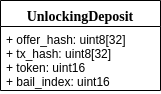
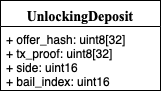
refactor: diagrams and other amends
Refers #8

diff --git a/src/chasm/primitives/transaction/UnlockDepositTransaction.hpp b/src/chasm/primitives/transaction/UnlockDepositTransaction.hpp
@@ -33,6 +33,11 @@ namespace chasm::primitives::transaction {
      */
     class UnlockDepositTransaction : public Transaction {
     public:
+        enum class TransactionSide : uint8_t {
+            seller,
+            buyer
+        };
+
         ~UnlockDepositTransaction() override = default;
 
         bool operator==(const UnlockDepositTransaction &rh) const;
@@ -44,13 +49,11 @@ namespace chasm::primitives::transaction {
         friend void boost::serialization::serialize(Archive &ar, UnlockDepositTransaction &tx,
                                                     unsigned int version);
 
-        using proof_t = std::vector<std::byte>;
+        hash_t offerHash_; //!< Exchange id
+        TransactionSide side_; //!< Either seller or buyer. This side of the exchange will be checked
+        uptr_t<proof_t> proof_; //!< Proof of tx inclusion
 
-        hash_t offerHash_;
-        token_t token_;
-        uptr_t<proof_t> proof_;
-
-        out_idx_t bailIndex_;
+        out_idx_t bailIndex_; //!< Index of bail (in outputs)
     };
 }
 
@@ -60,7 +63,7 @@ namespace boost::serialization {
                    unsigned int version) {
         ar & boost::serialization::base_object<chasm::primitives::Transaction>(tx);
         ar & tx.offerHash_;
-        ar & tx.token_;
+        ar & tx.side_;
         ar & tx.proof_;
         ar & tx.bailIndex_;
     }

diff --git a/src/chasm/primitives/Header.hpp b/src/chasm/primitives/Header.hpp
@@ -19,6 +19,12 @@ namespace boost::serialization {
 }
 
 namespace chasm::primitives {
+
+    /*!
+     * \brief Represents Block's header
+     *
+     * \b Note: Hash of the block is a hash of the header.
+     */
     class Header : public Serializable {
     public:
         ~Header() override = default;
@@ -32,15 +38,16 @@ namespace chasm::primitives {
         friend void boost::serialization::serialize(Archive &ar, Header &header,
                                                     unsigned int version);
 
-        types::hash_t prevTxHash_;
+        hash_t prevTxHash_; //!< Pointer to the previous block
 
-        types::hash_t merkleTreeRoot_;
+        hash_t merkleTreeRoot_; //!< Merkle tree root of a tree made of included transactions
 
-        types::timestamp_t timestamp_; // TODO: must be higher than the timestamp of the previous block
+        // TODO: must be higher than the timestamp of the previous block
+        timestamp_t timestamp_; //!< Timestamp of the current block
 
-        types::nonce_t nonce_;
+        nonce_t nonce_; //!< Adjustable value. Used when mining new blocks
 
-        types::difficulty_t difficulty_;
+        difficulty_t difficulty_; //!< Number of leading bits of hash that must be zeroed
     };
 }
 

diff --git a/src/chasm/primitives/transaction/OfferTransaction.hpp b/src/chasm/primitives/transaction/OfferTransaction.hpp
@@ -51,10 +51,10 @@ namespace chasm::primitives::transaction {
         token_t tokenOut_; //!< Token being demanded
         value_t valueOut_; //!< Value being demanded
 
-        address_t address_; //!< Receiver's address (on the blockchain where the exchange happens)
+        address_t address_; //!< Receiver's address (on tokenOut blockchain)
 
         //! Time in seconds how long will the offer be 'matchable',
-        //! starting from the timestamp of the block in which the transaction was included in.
+        //! starting from the timestamp of a block which the transaction was included in.
         timestamp_t offerTimeout_;
         nonce_t nonce_; //!< used to adjust a hash of an offer. \b Note: it is not of the same type as \ref Block::nonce_t
 

diff --git a/src/chasm/primitives/Transaction.hpp b/src/chasm/primitives/Transaction.hpp
@@ -51,9 +51,9 @@ namespace chasm::primitives {
         using input_t = transaction::Input;
         using output_t = transaction::Output;
 
-        std::list<uptr_t<input_t>> inputs_;
+        std::list<uptr_t<input_t>> inputs_; //!< Ordered list of inputs. The order determines the order of signatures
 
-        std::list<uptr_t<output_t>> outputs_;
+        std::list<uptr_t<output_t>> outputs_; //!< Ordered list of outputs. The order determines future usages as inputs.
     };
 }
 

diff --git a/src/chasm/primitives/transaction/ConfirmationTransaction.hpp b/src/chasm/primitives/transaction/ConfirmationTransaction.hpp
@@ -25,10 +25,10 @@ namespace chasm::primitives::transaction {
 
     private:
 
-        types::hash_t offerHash_;
+        hash_t offerHash_; //!< Exchange to be confirmed
 
-        uptr_t<types::proof_t> proofTokenIn_;
-        uptr_t<types::proof_t> proofTokenOut_;
+        uptr_t<proof_t> proofTokenIn_; //!< Proof of tx inclusion (seller's transaction)
+        uptr_t<proof_t> proofTokenOut_; //!< Proof of tx inclusion (buyer's transaction)
 
     };
 }

diff --git a/src/chasm/primitives/transaction/MatchTransaction.hpp b/src/chasm/primitives/transaction/MatchTransaction.hpp
@@ -45,7 +45,7 @@ namespace chasm::primitives::transaction {
 
         out_idx_t confirmationFeeIdx_; //!< Index of confirmation fee. The output must be of type \b FeeOutput
 
-        out_idx_t bailIdx_; //!< Index of a bail.
+        out_idx_t bailIdx_; //!< Index of bail.
 
     };
 }
